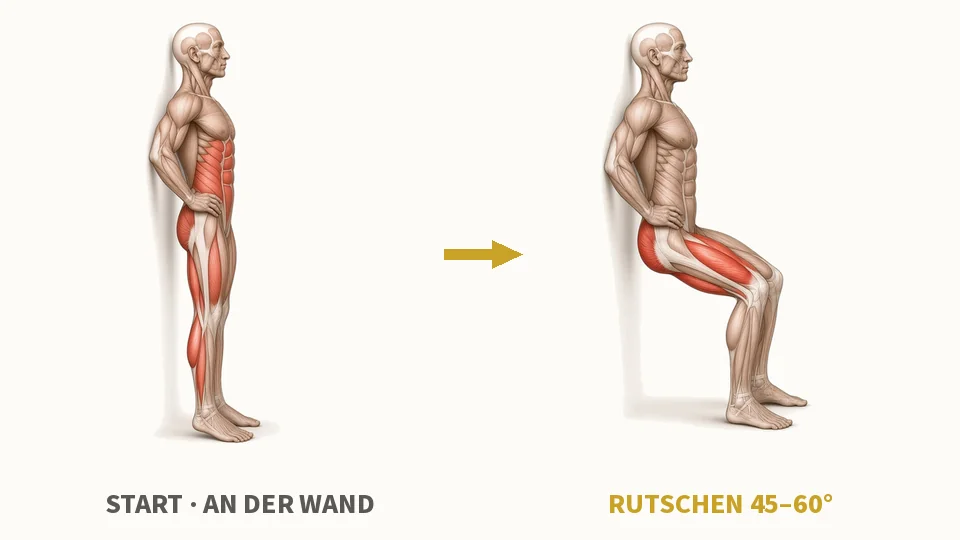
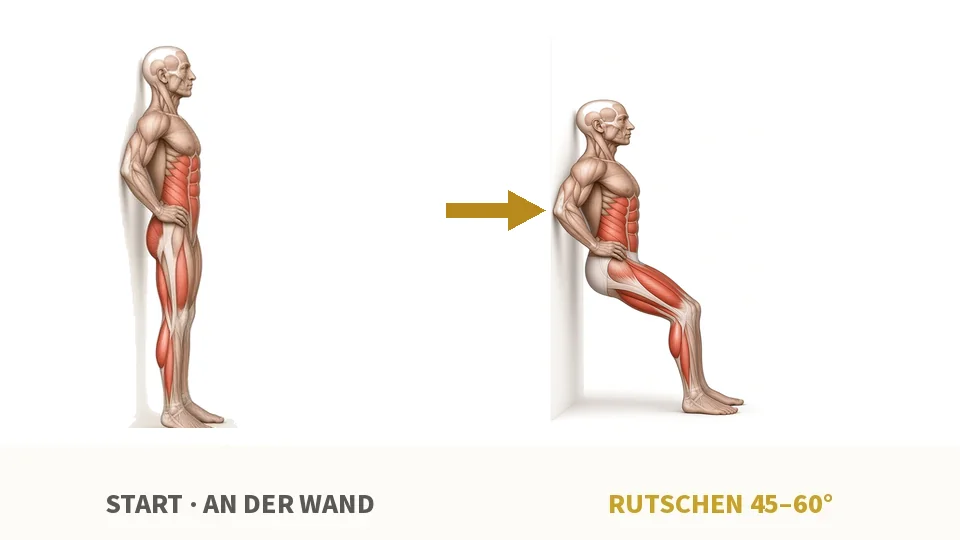
Update 2026-11-22

Changed region(s): [[0.4375, 0.0296, 0.8438, 0.8], [0.125, 0.0296, 0.2812, 0.8296]]

diff --git a/app.js b/app.js
@@ -1,6 +1,6 @@
 /* Voccola Gym Log – Vanilla JS, offline, keine Tracker. Daten bleiben im Browser (IndexedDB). */
 'use strict';
-const APP_VERSION = '1.9.8';
+const APP_VERSION = '1.9.9';
 
 /* ---------- Helpers ---------- */
 const $ = (s, r = document) => r.querySelector(s);
@@ -160,6 +160,7 @@ const CHEST_CURL = { id: 'a-bizeps-kabel-brustgestuetzt', name: 'Bizeps-Curl Kab
   desc: 'Warum: Trainiert den Bizeps in erhöhter Armposition (kurze Muskellänge, starke Spitzenkontraktion). Der Oberkörper ist gestützt – kein Mogeln, der Rücken bleibt entlastet.\n\nPlan: 2 Aufwärmsätze + 2 Arbeitssätze, 10–15 Wdh., letzter Satz nah ans Muskelversagen. Gesamtgewicht (Kabel). Fokus: Bizeps.\n\nSetup: Kabel oben – Rolle knapp über Kopfhöhe im Sitzen. Kurze gerade Stange einhängen. Verstellbare Bank steil auf ca. 70–75° stellen und mit dem Gesicht zum Kabelturm setzen: Brust fest an die Lehne, Oberkante der Lehne etwa auf Achsel- bzw. oberer Brusthöhe. Stange im Untergriff schulterbreit fassen. Ellenbogen stehen vor dem Körper, erhöht und schräg nach oben Richtung Rolle – frei in der Luft, nicht aufgestützt, und bleiben dort fixiert. Start: Arme fast gestreckt, in der Kabellinie, unten nicht ganz durchdrücken.\n\nAusführung: Beidarmig curlen, bis die Stange Richtung Stirn kommt. Oben kurz anspannen (hoch ca. 1 s), dann 1,5–2 s langsam zurück.\n• Ellenbogen bleiben fixiert – nicht nach unten oder vorne wandern\n• Brust bleibt fest an der Lehne\n• Kein Schwung\n• Arme unten nicht komplett durchdrücken',
   elbowNote: 'Ellenbogen heilt noch, und das Kabel hält durchgehend Spannung: leicht starten, unten nicht ganz durchstrecken. Bei Ziehen am Ellenbogen sofort Gewicht runter.' };
 /* v1.9.8: Frontheben-Text und -Bilder korrigiert (Gesicht zum Kabel, Start Hüfte, Bogen über Kopf); Bizeps-Bilder korrigiert (Brust an die Lehne). Gleiche IDs, Start+Ende-Bilder. Bestehende Sätze unverändert */
+/* v1.9.9: Bild-Audit – korrigiert: Schulterpresse Kabelzug liegend (Kabel von hinten unten), Incline Row (Brust auf Schrägbank), Wandrutschen 45–60° (inkl. Ablaufbild). Auswahl, Dosis, Reihenfolge, Pausen und Hüft-Regeln unverändert */
 /* v1.9.6: Frontheben Kabel sitzend – im Oberkörper-Plan (Schultern); v1.9.8 Name/Text/Bild korrigiert (nicht mehr „Rücken zum Kabel“) */
 const FRONT_RAISE = { id: 's-frontheben-kabel-sitzend', name: 'Frontheben Kabel sitzend (Schrägbank, Gesicht zum Kabel)', group: 'Schultern', unit: 'reps', perSide: false, elbow: 'e', target: 12, order: 10.6,
   desc: 'Warum: Trainiert die vordere Schulter über einen großen Bewegungsweg bis über Kopf. Rücken und Kopf sind an der Lehne gestützt.\n\nPlan: 2 Aufwärmsätze + 2 Arbeitssätze, 10–15 Wdh., letzter Satz nah ans Muskelversagen. Gesamtgewicht (Kabel). Fokus: vordere Schulter.\n\nSetup: Kabel ganz unten (untere Rolle). Verstellbare Bank als Schrägbank aufstellen – die Lehne zeigt vom Kabelturm weg. Hinsetzen wie beim Schrägbankdrücken: mit dem Gesicht zum Kabelturm, Füße zum Turm, Rücken und Kopf fest an der Lehne anlehnen. Gerade Stange am unteren Kabel (ggf. mit Gurt/Strap). Stange im Obergriff fassen. Arme fast gestreckt, leichte Beugung im Ellenbogen fixieren (nicht mitbeugen). Startposition: Arme nach vorn-unten Richtung untere Rolle, Stange etwa auf Hüft-/Oberschenkelhöhe.\n\nAusführung: Stange im Bogen nach vorn-oben führen, bis die Arme nach oben über Kopf zeigen (Richtung oberes Ende des Turms). 1–2 s heben, dann 2–3 s langsam zurück in die Startposition.\n• Rücken und Kopf bleiben fest an der Lehne – Becken nicht abheben, kein Hohlkreuz\n• Ellenbogenwinkel bleibt leicht gebeugt und unverändert\n• Kein Schwung\n• Unterer Rücken bleibt an der Lehne (Bandscheibe/ISG)',

diff --git a/sw.js b/sw.js
@@ -1,5 +1,5 @@
-/* Voccola Gym Log – Service Worker (v1.9.8: Frontheben-Text/Bilder und Bizeps-Bilder korrigiert; v1.9.7: Bizeps-Curl Kabel brustgestützt; v1.9.6: Frontheben Kabel sitzend über Kopf; v1.9.5: rollwiper neu; v1.9.4: rollknie-Text angepasst; v1.9.3: Halber Frosch fest im Abend-Block; v1.9.2: Hüft-Reha Wdh. pro Seite; v1.9.1: weitere MRT-Pausen und Cues; v1.9.0: HipFit + MRT-Pause, Schmerz-Ampel, Alltag/Schlaf) */
-const CACHE = 'vgl-v1.9.8';
+/* Voccola Gym Log – Service Worker (v1.9.9: Bild-Audit Presse/Incline-Row/Wandrutschen; v1.9.8: Frontheben-Text/Bilder und Bizeps-Bilder korrigiert; v1.9.7: Bizeps-Curl Kabel brustgestützt; v1.9.6: Frontheben Kabel sitzend über Kopf; v1.9.5: rollwiper neu; v1.9.4: rollknie-Text angepasst; v1.9.3: Halber Frosch fest im Abend-Block; v1.9.2: Hüft-Reha Wdh. pro Seite; v1.9.1: weitere MRT-Pausen und Cues; v1.9.0: HipFit + MRT-Pause, Schmerz-Ampel, Alltag/Schlaf) */
+const CACHE = 'vgl-v1.9.9';
 const ASSETS = ['./', './index.html', './styles.css', './app.js', './mob-core.js', './mobility.js', './nutri-core.js', './nutrition.js', './mind-core.js', './mindset.js', './manifest.webmanifest',
   './icons/icon-192.png', './icons/icon-512.png', './icons/apple-touch-icon.png', './icons/icon-maskable-512.png', './assets/dumbbell.webp', './assets/vendor/zxing.min.js', './assets/keepawake.mp4',
   './assets/ex/a-bizeps-kabel-brustgestuetzt.webp', './assets/ex/a-bizeps-kabel-brustgestuetzt-2.webp', './assets/ex/b-guillotine.webp', './assets/ex/b-fly-schraeg-kabel.webp', './assets/ex/bauch-crunch-maschine.webp', './assets/ex/r-facepull.webp', './assets/ex/r-revfly.webp', './assets/ex/r-row-incline-kabel.webp', './assets/ex/r-row-trapez-schraeg-breit.webp', './assets/ex/s-presse-kabel-liegend.webp', './assets/ex/s-frontheben-kabel-sitzend.webp', './assets/ex/s-frontheben-kabel-sitzend-2.webp', './assets/ex/s-seitheben-kabel-einarm.webp', './assets/ex/s-seitheben-vorgebeugt.webp', './assets/ex/x1.webp', './assets/ex/x10.webp', './assets/ex/x11.webp', './assets/ex/x12.webp', './assets/ex/x13.webp', './assets/ex/x14.webp', './assets/ex/x15.webp', './assets/ex/x16.webp', './assets/ex/x17.webp', './assets/ex/x18.webp', './assets/ex/x19.webp', './assets/ex/x2.webp', './assets/ex/x20.webp', './assets/ex/x21.webp', './assets/ex/x22.webp', './assets/ex/x23.webp', './assets/ex/x24.webp', './assets/ex/x25.webp', './assets/ex/x26.webp', './assets/ex/x27.webp', './assets/ex/x28.webp', './assets/ex/x3.webp', './assets/ex/x4.webp', './assets/ex/x5.webp', './assets/ex/x6.webp', './assets/ex/x7.webp', './assets/ex/x8.webp', './assets/ex/x9.webp', 
